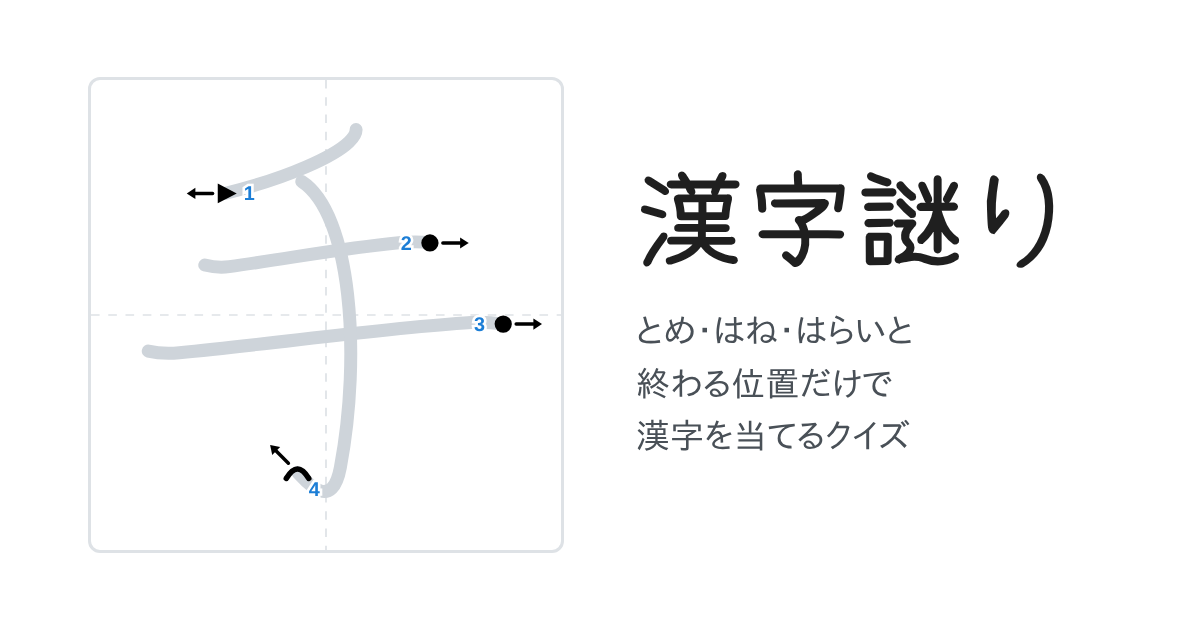
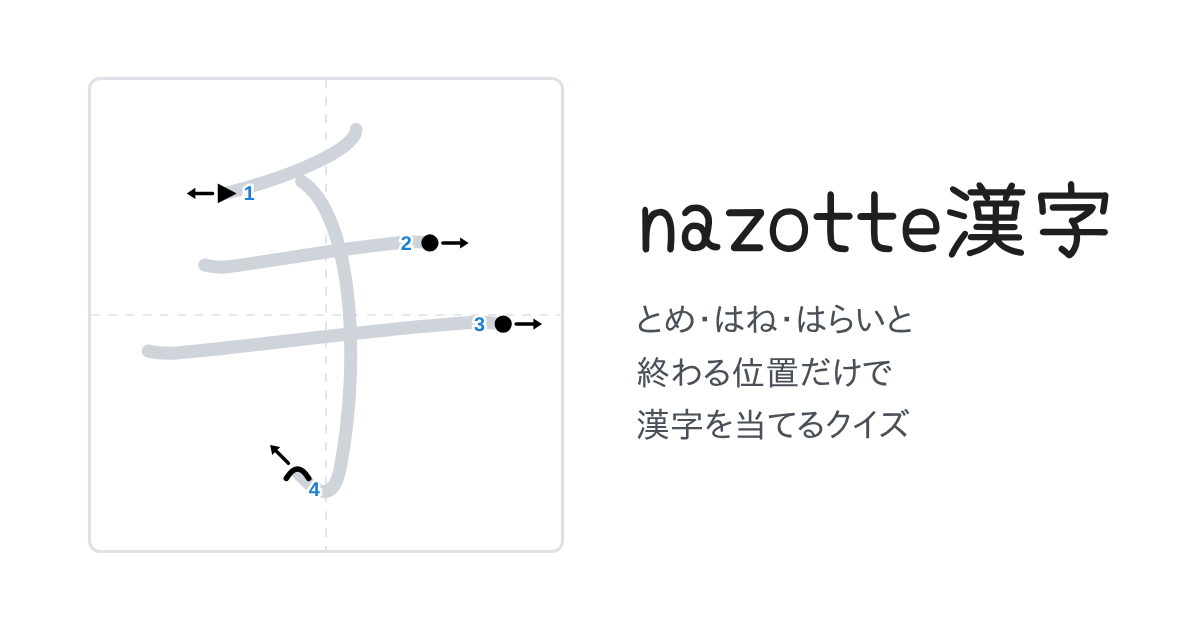
Rename the service from 漢字謎り to nazotte漢字
Updates the top-page title (Yomogi now loads the characters of the new
name), browser and test-page titles, OGP and X card titles and alt
text, the share hashtag (#nazotte漢字), README and spec, and redraws
the OGP image. Repository name, URLs and storage keys are unchanged.

Claude-Session: https://claude.ai/code/session_016kx5hkpNEZDzF4VU73bfL6

Changed region(s): [[0.5242, 0.2714, 0.925, 0.4222], [0.5242, 0.573, 0.7708, 0.7238], [0.5242, 0.4825, 0.7708, 0.5429]]

diff --git a/index.html b/index.html
@@ -7,12 +7,12 @@
       name="description"
       content="漢字の各画が終わる位置と、とめ・はね・はらいだけを手がかりに漢字を当てるクイズ。毎日2問の「今日の1文字」と、外れるまで続く「エンドレス」で遊べます。"
     />
-    <title>漢字謎り</title>
+    <title>nazotte漢字</title>
     <!-- SNS で共有したときの表示(OGP / X のカード)。画像と URL は公開先の絶対 URL。
          X は小さな正方形のカード(summary)なので、正方形の画像を使う -->
     <meta property="og:type" content="website" />
-    <meta property="og:site_name" content="漢字謎り" />
-    <meta property="og:title" content="漢字謎り" />
+    <meta property="og:site_name" content="nazotte漢字" />
+    <meta property="og:title" content="nazotte漢字" />
     <meta
       property="og:description"
       content="漢字の各画が終わる位置と、とめ・はね・はらいだけを手がかりに漢字を当てるクイズ。毎日2問の「今日の1文字」と、外れるまで続く「エンドレス」で遊べます。"
@@ -26,11 +26,11 @@
     <meta property="og:image:height" content="630" />
     <meta
       property="og:image:alt"
-      content="「手」の各画の終わる位置に、とめ・はね・はらいの記号と書き順の番号を示した例と、タイトル「漢字謎り」"
+      content="「手」の各画の終わる位置に、とめ・はね・はらいの記号と書き順の番号を示した例と、タイトル「nazotte漢字」"
     />
     <meta property="og:locale" content="ja_JP" />
     <meta name="twitter:card" content="summary" />
-    <meta name="twitter:title" content="漢字謎り" />
+    <meta name="twitter:title" content="nazotte漢字" />
     <meta
       name="twitter:description"
       content="漢字の各画が終わる位置と、とめ・はね・はらいだけを手がかりに漢字を当てるクイズ。毎日2問の「今日の1文字」と、外れるまで続く「エンドレス」で遊べます。"
@@ -43,12 +43,12 @@
       name="twitter:image:alt"
       content="「手」の各画の終わる位置に、とめ・はね・はらいの記号と書き順の番号を示した例"
     />
-    <!-- アプリ名のタイトル用の手書き風フォント。使う4文字だけを読み込む -->
+    <!-- アプリ名のタイトル用の手書き風フォント。タイトルに使う文字だけを読み込む -->
     <link rel="preconnect" href="https://fonts.googleapis.com" />
     <link rel="preconnect" href="https://fonts.gstatic.com" crossorigin />
     <link
       rel="stylesheet"
-      href="https://fonts.googleapis.com/css2?family=Yomogi&text=%E6%BC%A2%E5%AD%97%E8%AC%8E%E3%82%8A&display=swap"
+      href="https://fonts.googleapis.com/css2?family=Yomogi&text=nazotte%E6%BC%A2%E5%AD%97&display=swap"
     />
   </head>
   <body>

diff --git a/src/layouts/AppLayout.tsx b/src/layouts/AppLayout.tsx
@@ -6,7 +6,7 @@ import { hasSeenHowTo, markHowToSeen } from "../lib/how-to-seen.ts";
 import { MODE_LABELS, modeOfPath } from "../lib/modes.ts";
 import classes from "./AppLayout.module.css";
 
-/** ゲーム画面以外のページのタイトル(トップは「漢字謎り」) */
+/** ゲーム画面以外のページのタイトル(トップは「nazotte漢字」) */
 const PAGE_TITLES: Readonly<Record<string, string>> = {
   "/faq": "FAQ",
   "/credits": "クレジット",
@@ -57,7 +57,7 @@ export function AppLayout() {
           </Title>
         ) : (
           <Title order={1} className={`${classes.title} ${classes.appName}`}>
-            漢字謎り
+            nazotte漢字
           </Title>
         )}
         <Button

diff --git a/src/lib/share.test.ts b/src/lib/share.test.ts
@@ -8,7 +8,7 @@ describe("dailyShareText", () => {
       "https://example.com/",
     );
     expect(text).toBe(
-      "今日の1文字 難しい 3/5\n#漢字謎り\nhttps://example.com/",
+      "今日の1文字 難しい 3/5\n#nazotte漢字\nhttps://example.com/",
     );
     expect(text).not.toContain("森");
   });
@@ -17,7 +17,7 @@ describe("dailyShareText", () => {
 describe("endlessShareText", () => {
   it("難易度と連続正解数を書く", () => {
     expect(endlessShareText("oni", 12, "https://example.com/")).toBe(
-      "エンドレス 鬼 連続正解 12\n#漢字謎り\nhttps://example.com/",
+      "エンドレス 鬼 連続正解 12\n#nazotte漢字\nhttps://example.com/",
     );
   });
 });

diff --git a/scripts/build-preview.ts b/scripts/build-preview.ts
@@ -18,7 +18,7 @@ import path from "node:path";
 const ROOT = path.resolve(import.meta.dirname, "..");
 const OUT_DIR = path.join(ROOT, "dist-preview");
 const DATA_DIR = path.join(OUT_DIR, "data");
-const TITLE = "漢字謎り テスト版";
+const TITLE = "nazotte漢字 テスト版";
 
 // 出題データへのリクエストを data/bundle.json の中身で返す。
 // ビューアーのテーマ(data-theme)が明示されていれば、Mantine の配色にも反映する。

diff --git a/src/lib/share.ts b/src/lib/share.ts
@@ -2,7 +2,7 @@ import { DIFFICULTY_LABELS, type Difficulty } from "./difficulty.ts";
 import { scoreLabel, type Round } from "./game.ts";
 import { MODE_LABELS } from "./modes.ts";
 
-export const SHARE_HASHTAG = "#漢字謎り";
+export const SHARE_HASHTAG = "#nazotte漢字";
 
 /** 結果の1行の後に、ハッシュタグとページへのリンクを続ける */
 function withFooter(result: string, url: string): string {

diff --git a/specification/01-purpose-and-features.md b/specification/01-purpose-and-features.md
@@ -1,6 +1,6 @@
 # プロダクトの目的・機能
 
-- アプリ名: 漢字謎り(かんじなぞり)
+- アプリ名: nazotte漢字(なぞってかんじ)
 - リポジトリ: `ur0o/kanji-nazori`
 
 ## 目的
@@ -52,14 +52,14 @@
 - 難易度ごとに1日1回だけ挑戦できる。挑戦後はその難易度の当日の結果を表示する
 - 回答の途中経過も保存し、再読み込みしても回答回数は戻らない
 - 問題番号は第1回(2026-10-26、公開前に見直す)を #1 とし、1日ごとに 1 増える。2つの難易度で共通
-- 結果をシェアできる(答えは伏せる。例: `今日の1文字 難しい 3/5`、改行して `#漢字謎り`、改行してページへのリンク)。クリップボードへのコピーと X への投稿に対応
+- 結果をシェアできる(答えは伏せる。例: `今日の1文字 難しい 3/5`、改行して `#nazotte漢字`、改行してページへのリンク)。クリップボードへのコピーと X への投稿に対応
 - 記録(難易度ごと): 連続正解日数(現在と最長)、プレイ回数、正解率、何回目で当てたかの分布
 
 ### エンドレス
 
 - 「ふつう」「難しい」「鬼」から選んだ難易度で、1問不正解になるまで出題を続ける
 - 記録(難易度ごと): 連続正解数(今回と自己ベスト)
-- 不正解で終わったときに結果をシェアできる(例: `エンドレス 難しい 連続正解 12`、改行して `#漢字謎り`、改行してページへのリンク)。コピーと X への投稿は今日の1文字と同じ
+- 不正解で終わったときに結果をシェアできる(例: `エンドレス 難しい 連続正解 12`、改行して `#nazotte漢字`、改行してページへのリンク)。コピーと X への投稿は今日の1文字と同じ
 
 ## 成績の保存
 

diff --git a/specification/02-ui-and-screens.md b/specification/02-ui-and-screens.md
@@ -5,7 +5,7 @@
 - テイスト: シンプル・フラット。白と黒を中心にしたミニマルな配色。ダークモードにも対応する
 - スマホでの縦向きを基本にする。PC など横長の画面でも縦並びのまま、最大幅 480px 程度で中央に置く
 - 正方形エリアは、画面の高さに収まるよう必要に応じて縮める
-- 全画面共通のヘッダー: 左に戻る(トップ以外)、中央にタイトル、右に「遊び方」と「成績」のボタン(太字にせず、1px の角丸の枠線で囲む)。タイトルはトップ画面ではアプリ名「漢字謎り」(手書き風フォント Yomogi を太字で表示。Yomogi に太字はないのでブラウザで太らせる)、ゲーム画面ではモード名(「今日の1文字」「エンドレス」)
+- 全画面共通のヘッダー: 左に戻る(トップ以外)、中央にタイトル、右に「遊び方」と「成績」のボタン(太字にせず、1px の角丸の枠線で囲む)。タイトルはトップ画面ではアプリ名「nazotte漢字」(手書き風フォント Yomogi を太字で表示。Yomogi に太字はないのでブラウザで太らせる)、ゲーム画面ではモード名(「今日の1文字」「エンドレス」)
 
 ## 画面一覧
 

diff --git a/specification/CHANGELOG.md b/specification/CHANGELOG.md
@@ -1,4 +1,5 @@
 ## 2026-10-31
+- サービス名を「漢字謎り」から「nazotte漢字」に変更(タイトル、ブラウザのタブ、OGP、共有用の画像、シェアのハッシュタグ) [機能]
 - X のカードを summary に変更し、X 用に正方形の画像(「手」の例)を追加 [技術]
 - SNS で共有したときの表示用に OGP と X のカード(summary_large_image)のメタタグと画像を追加 [技術]
 - シェア欄の「コピーしました」を、モーダルを閉じるかページを移るまで表示し続けるよう変更 [UI]

diff --git a/README.md b/README.md
@@ -1,4 +1,4 @@
-# 漢字謎り
+# nazotte漢字
 
 漢字の各画が「どこで、どのように(とめ・はね・はらい)終わるか」だけを手がかりに、元の漢字を当てるクイズです。仕様は [specification/](specification/) にあります。
 
